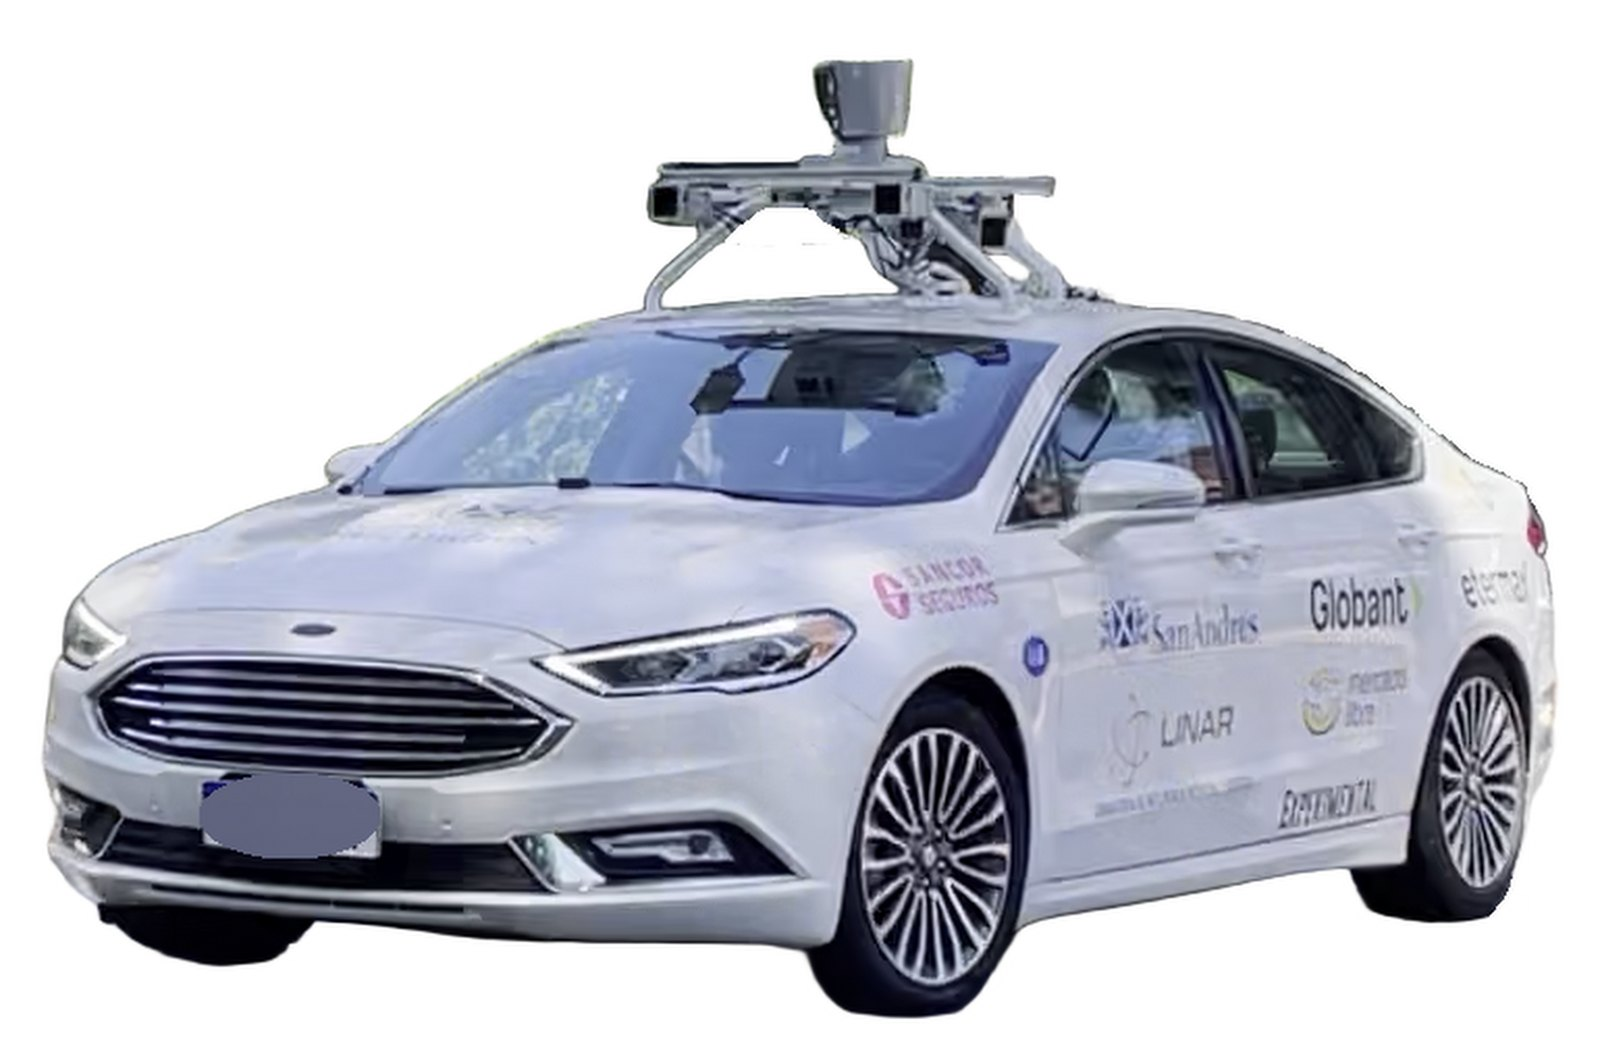
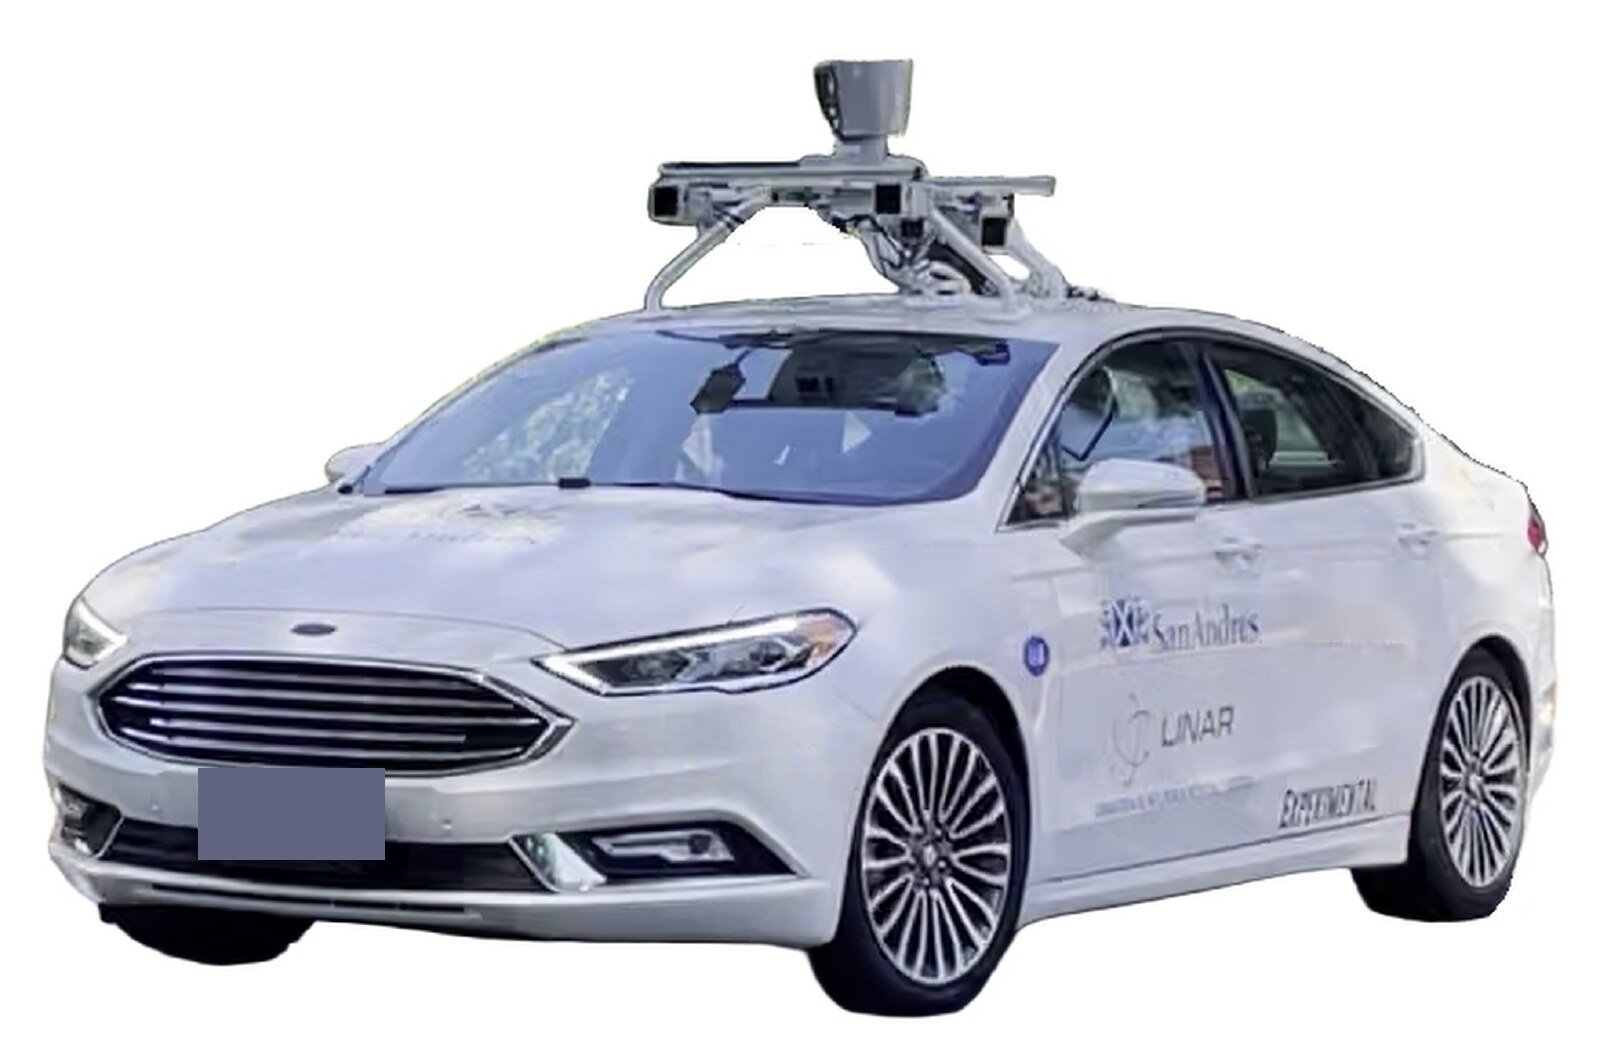
Toolkit and citation update; final scenes mosaic; vehicle photo as in the paper
- Toolkit button and links: the public SDK (udesa-linar/badataset_sdk, v0.2.0); Roberto Bunge added to the authors
- Not submitted yet: no venue line; cite as @misc with the project page
- Scenes: the mosaic with the final anonymization (a face missed by the earlier pipeline is now blurred)
- Vehicle photo: the one in the paper (Figure 1)
- Data: Hugging Face release still to come (button "soon")

diff --git a/index.html b/index.html
@@ -32,6 +32,7 @@
             <span class="author-block">Claus Rosito<sup>1</sup>,</span>
             <span class="author-block">Gabriel Torre<sup>1,3</sup>,</span>
             <span class="author-block">Ignacio Mas<sup>1,2</sup>,</span>
+            <span class="author-block">Roberto Bunge<sup>1,2</sup>,</span>
             <span class="author-block">Juan I. Giribet<sup>1,2</sup></span>
           </div>
           <div class="is-size-6 publication-authors affiliations">
@@ -39,7 +40,6 @@
             <span class="author-block"><sup>2</sup>CONICET</span>
             <span class="author-block"><sup>3</sup>Instituto de Ingeniería Biomédica, Universidad de Buenos Aires</span>
           </div>
-          <div class="publication-venue-line">International Journal of Robotics Research &middot; submitted</div>
 
           <div class="column has-text-centered">
             <div class="publication-links">
@@ -57,11 +57,10 @@
                   <span>Data</span><span class="soon">soon</span>
                 </a>
               </span>
-              <!-- Code link. When public: href="https://github.com/udesa-linar/badataset_sdk", drop disabled and the soon tag. -->
               <span class="link-block">
-                <a class="external-link button is-normal is-rounded is-dark" disabled title="Coming soon">
+                <a href="https://github.com/udesa-linar/badataset_sdk" class="external-link button is-normal is-rounded is-dark" title="Toolkit on GitHub">
                   <span class="icon"><svg class="svg-icon" viewBox="0 0 496 512" aria-hidden="true" focusable="false"><path d="M165.9 397.4c0 2-2.3 3.6-5.2 3.6-3.3.3-5.6-1.3-5.6-3.6 0-2 2.3-3.6 5.2-3.6 3-.3 5.6 1.3 5.6 3.6zm-31.1-4.5c-.7 2 1.3 4.3 4.3 4.9 2.6 1 5.6 0 6.2-2s-1.3-4.3-4.3-5.2c-2.6-.7-5.5.3-6.2 2.3zm44.2-1.7c-2.9.7-4.9 2.6-4.6 4.9.3 2 2.9 3.3 5.9 2.6 2.9-.7 4.9-2.6 4.6-4.6-.3-1.9-3-3.2-5.9-2.9zM244.8 8C106.1 8 0 113.3 0 252c0 110.9 69.8 205.8 169.5 239.2 12.8 2.3 17.3-5.6 17.3-12.1 0-6.2-.3-40.4-.3-61.4 0 0-70 15-84.7-29.8 0 0-11.4-29.1-27.8-36.6 0 0-22.9-15.7 1.6-15.4 0 0 24.9 2 38.6 25.8 21.9 38.6 58.6 27.5 72.9 20.9 2.3-16 8.8-27.1 16-33.7-55.9-6.2-112.3-14.3-112.3-110.5 0-27.5 7.6-41.3 23.6-58.9-2.6-6.5-11.1-33.3 2.6-67.9 20.9-6.5 69 27 69 27 20-5.6 41.5-8.5 62.8-8.5s42.8 2.9 62.8 8.5c0 0 48.1-33.6 69-27 13.7 34.7 5.2 61.4 2.6 67.9 16 17.7 25.8 31.5 25.8 58.9 0 96.5-58.9 104.2-114.8 110.5 9.2 7.9 17 22.9 17 46.4 0 33.7-.3 75.4-.3 83.6 0 6.5 4.6 14.4 17.3 12.1C428.2 457.8 496 362.9 496 252 496 113.3 383.5 8 244.8 8zM97.2 352.9c-1.3 1-1 3.3.7 5.2 1.6 1.6 3.9 2.3 5.2 1 1.3-1 1-3.3-.7-5.2-1.6-1.6-3.9-2.3-5.2-1zm-10.8-8.1c-.7 1.3.3 2.9 2.3 3.9 1.6 1 3.6.7 4.3-.7.7-1.3-.3-2.9-2.3-3.9-2-.6-3.6-.3-4.3.7zm32.4 35.6c-1.6 1.3-1 4.3 1.3 6.2 2.3 2.3 5.2 2.6 6.5 1 1.3-1.3.7-4.3-1.3-6.2-2.2-2.3-5.2-2.6-6.5-1zm-11.4-14.7c-1.6 1-1.6 3.6 0 5.9 1.6 2.3 4.3 3.3 5.6 2.3 1.6-1.3 1.6-3.9 0-6.2-1.4-2.3-4-3.3-5.6-2z"/></svg></span>
-                  <span>Toolkit</span><span class="soon">soon</span>
+                  <span>Toolkit</span>
                 </a>
               </span>
               <span class="link-block">
@@ -324,7 +323,7 @@
   <div class="container is-max-desktop">
     <h2 class="title is-3 has-text-centered">Download</h2>
     <div class="notification is-info is-light has-text-centered">
-      <svg class="svg-icon" viewBox="0 0 384 512" aria-hidden="true" focusable="false"><path d="M32 0C14.3 0 0 14.3 0 32S14.3 64 32 64V75c0 42.4 16.9 83.1 46.9 113.1L146.7 256 78.9 323.9C48.9 353.9 32 394.6 32 437v11c-17.7 0-32 14.3-32 32s14.3 32 32 32H64 320h32c17.7 0 32-14.3 32-32s-14.3-32-32-32V437c0-42.4-16.9-83.1-46.9-113.1L237.3 256l67.9-67.9c30-30 46.9-70.7 46.9-113.1V64c17.7 0 32-14.3 32-32s-14.3-32-32-32H320 64 32zM96 75V64H288V75c0 19-5.6 37.4-16 53H112c-10.3-15.6-16-34-16-53zm16 309c3.5-5.3 7.6-10.3 12.1-14.9L192 301.3l67.9 67.9c4.6 4.6 8.6 9.6 12.1 14.9H112z"/></svg>&nbsp; The data and the toolkit are being prepared for release and will be linked from this page soon.
+      <svg class="svg-icon" viewBox="0 0 384 512" aria-hidden="true" focusable="false"><path d="M32 0C14.3 0 0 14.3 0 32S14.3 64 32 64V75c0 42.4 16.9 83.1 46.9 113.1L146.7 256 78.9 323.9C48.9 353.9 32 394.6 32 437v11c-17.7 0-32 14.3-32 32s14.3 32 32 32H64 320h32c17.7 0 32-14.3 32-32s-14.3-32-32-32V437c0-42.4-16.9-83.1-46.9-113.1L237.3 256l67.9-67.9c30-30 46.9-70.7 46.9-113.1V64c17.7 0 32-14.3 32-32s-14.3-32-32-32H320 64 32zM96 75V64H288V75c0 19-5.6 37.4-16 53H112c-10.3-15.6-16-34-16-53zm16 309c3.5-5.3 7.6-10.3 12.1-14.9L192 301.3l67.9 67.9c4.6 4.6 8.6 9.6 12.1 14.9H112z"/></svg>&nbsp; The full release is being prepared for Hugging Face and will be linked from this page.
     </div>
     <div class="content">
       <p>The data are hosted on Hugging Face as ROS 2 MCAP bags, one per sensor group and split, so you can download only
@@ -346,7 +345,7 @@ badataset-download /data/buenos_aires --calib                             <span 
 
     <h2 class="title is-3 has-text-centered mt-6">Toolkit</h2>
     <div class="content">
-      <p>The <code>badataset</code> Python package reads the bags without a ROS installation, provides the calibration as
+      <p>The <code>badataset</code> Python package (<a href="https://github.com/udesa-linar/badataset_sdk">github.com/udesa-linar/badataset_sdk</a>, Apache 2.0) reads the bags without a ROS installation, provides the calibration as
         matrices with LiDAR-to-camera projection, evaluates trajectories against the reference, and contains the scripts
         that reproduce every calibration from the released recordings and compare the result with the release. The MINS
         configuration of the reference trajectory is included.</p>
@@ -416,13 +415,12 @@ E.rpe_kitti(ref.traj, E.load_tum('mine.txt'))      <span class="c"># relative er
 <section class="section pt-0" id="BibTeX">
   <div class="container is-max-desktop content">
     <h2 class="title">BibTeX</h2>
-    <pre><code>@article{roca2026buenosaires,
+    <pre><code>@misc{roca2026buenosaires,
   title   = {The Buenos Aires Dataset: Multimodal Driving Data from a Latin American Metropolis
              with GNSS-Referenced Time Synchronization},
   author  = {Roca, Agust{\'i}n and Castro, Gast{\'o}n and Rosito, Claus and Torre, Gabriel and
-             Mas, Ignacio and Giribet, Juan I.},
-  journal = {The International Journal of Robotics Research},
-  note    = {submitted},
+             Mas, Ignacio and Bunge, Roberto and Giribet, Juan I.},
+  howpublished = {\url{https://udesa-linar.github.io/buenos-aires-dataset/}},
   year    = {2026}
 }</code></pre>
   </div>
